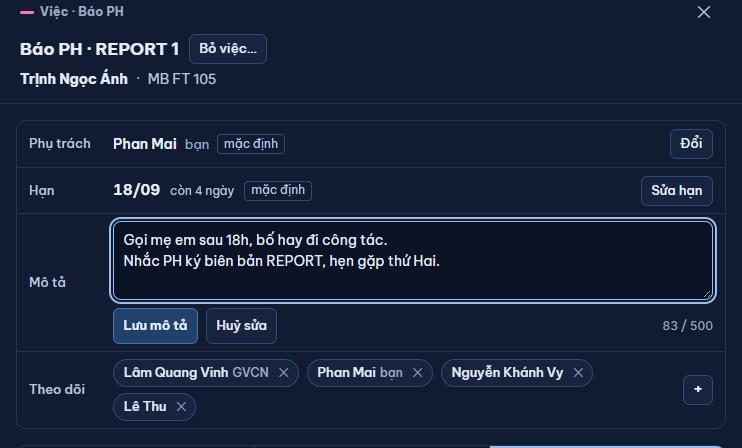
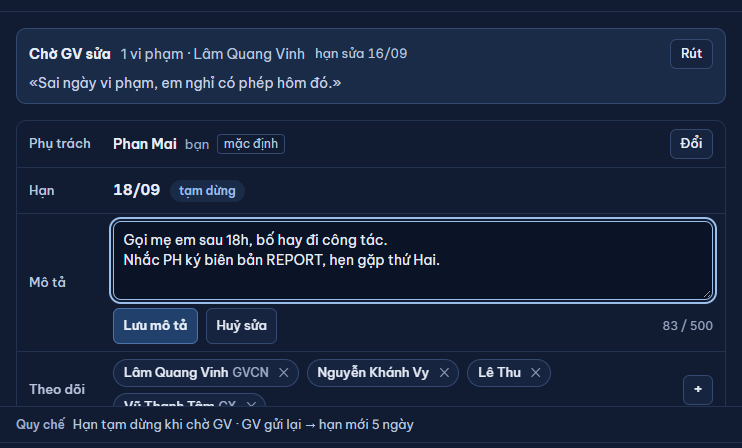
GV-3 rà PTA: người phụ trách không hiện ở Theo dõi (lọc khi đọc, máy chủ, một chỗ) + phép kiểm; Mô tả rỗng gọn một dòng '+ Thêm mô tả'; chụp lại ảnh sau gộp main (#1938 + TL-2): rỗng · có mô tả · chỉ đọc · Vi phạm bị trả lại · Meeting

diff --git a/web/src/modules/congViec/KhoiGiaoViec.tsx b/web/src/modules/congViec/KhoiGiaoViec.tsx
@@ -171,6 +171,17 @@ function DongMoTa({ g, daDoi, reload }: { g: KhoiGv; daDoi: (g: KhoiGv) => void;
     } finally { setDang(false); }
   };
   const o = 'flex min-h-[46px] min-w-0 items-center border-t px-3 py-[7px] max-sm:min-h-[52px] max-sm:px-2.5';
+  const moSua = () => { setNhap(cu ?? ''); setLoi(null); setSua(true); };
+  /* Rà PTA (3): chưa có mô tả → một dòng thấp "Mô tả · + Thêm mô tả" (không ô trống cao, không nút bên phải). */
+  if (!cu && !sua) {
+    const gon = 'flex min-h-[38px] min-w-0 items-center border-t px-3 py-1 max-sm:min-h-[44px] max-sm:px-2.5';
+    return <>
+      <div className={`${gon} whitespace-nowrap pr-0 text-[13px] font-medium text-dim`} style={{ borderColor: 'var(--line)' }}>{t('Mô tả')}</div>
+      <div className={`${gon} col-span-2`} style={{ borderColor: 'var(--line)' }}>
+        <button ref={nutSua} type="button" className="link min-h-[44px] appearance-none border-0 bg-transparent p-0 text-sm font-semibold sm:min-h-0" onClick={moSua}>{t('+ Thêm mô tả')}</button>
+      </div>
+    </>;
+  }
   return <>
     <div className={NHAN} style={{ borderColor: 'var(--line)' }}>{sua ? <label htmlFor={idO}>{t('Mô tả')}</label> : t('Mô tả')}</div>
     {sua ? (
@@ -198,11 +209,11 @@ function DongMoTa({ g, daDoi, reload }: { g: KhoiGv; daDoi: (g: KhoiGv) => void;
       </div>
     ) : <>
       <div className={`${o} text-sm`} style={{ borderColor: 'var(--line)' }}>
-        {cu ? <span className="min-w-0 whitespace-pre-wrap break-words text-[color:var(--text)]">{cu}</span> : <span className="text-faint">{t('Chưa có')}</span>}
+        <span className="min-w-0 whitespace-pre-wrap break-words text-[color:var(--text)]">{cu}</span>
       </div>
       <div className={`${O} justify-end pl-0`} style={{ borderColor: 'var(--line)' }}>
         {g.coTheSuaMoTa && <button ref={nutSua} type="button" className="btn btn-sm min-h-[44px] sm:min-h-[30px]"
-          onClick={() => { setNhap(cu ?? ''); setLoi(null); setSua(true); }}>{cu ? t('Sửa') : t('Thêm')}</button>}
+          onClick={moSua}>{t('Sửa')}</button>}
       </div>
     </>}
   </>;

diff --git a/server/src/worklist/giaoViec.ts b/server/src/worklist/giaoViec.ts
@@ -643,7 +643,10 @@ export function xemGiaoViec(p: Principal, loai: LoaiGiao, id: number): KhoiGiaoV
     giaoBoi: v.pt && r.giao_boi ? nguoi(r.giao_boi) : null, giaoLuc: v.pt ? r.giao_luc ?? null : null,
     han: h.han, hanMacDinh: h.macDinh, hanChon: h.chon, coTheSuaHan: coTheSuaHan(p, v), tamDung: loai === 'bao_ph' && v.mo && !!r.tra_lai_id,
     hanTinhLai: (() => { const c = lan.filter((l) => l.truong === 'han' || l.truong === 'han_tinh_lai').at(-1); return c?.truong === 'han_tinh_lai' && c.moi === h.chon; })(),
-    theoDoi: td.map((t) => ({ id: t.user_id, ten: t.full_name ?? null, nguon: t.nguon })), toiTheoDoi: td.some((t) => t.user_id === p.userId),
+    /* GV-3 (rà PTA): người đang phụ trách (kể cả người theo luật khi việc về mặc định) không hiện là người theo dõi việc của chính mình — dòng giữ trong bảng
+       (giao đi lần nữa thì hiện lại; Hoàn tác cần dòng còn nguyên), chỉ lọc khi đọc. Tab Đang theo dõi đã bỏ việc của mình (`viecTheoDoi`). */
+    theoDoi: td.filter((t) => !v.phuTrach.includes(t.user_id)).map((t) => ({ id: t.user_id, ten: t.full_name ?? null, nguon: t.nguon })),
+    toiTheoDoi: td.some((t) => t.user_id === p.userId) && !v.phuTrach.includes(p.userId),
     coTheDoiNguoi: doiDuoc, coTheSuaTheoDoi: v.mo && coTheSuaTheoDoi(p, v), hoanTacDuoc: !!gd,
     moTa: mt ? { noiDung: mt.noi_dung, suaBoi: mt.full_name ?? null, suaLuc: mt.sua_luc } : null, coTheSuaMoTa: v.mo && coTheSuaMoTa(p, v),
     lichSu: lan.map((l) => ({ truong: l.truong, cu: l.cu ?? null, moi: l.moi ?? null, cuTen: l.truong === 'mo_ta' ? null : tenSo(l.cu), moiTen: l.truong === 'mo_ta' ? null : tenSo(l.moi),   /* VH-1b: mô tả "12" không phải id người */ nguoi: l.nguoi ?? null, luc: l.luc })),

diff --git a/server/src/tests/prGiaoViec.tests.ts b/server/src/tests/prGiaoViec.tests.ts
@@ -554,6 +554,17 @@ export async function runPrGiaoViecTests(t: YThucTestKit) {
     assert(c2 - c1 <= TRAN_GHI_LO.luuVai && c3 - c2 <= TRAN_GHI_LO.luuVai, `lưu vai: ${c2 - c1} / ${c3 - c2} câu > trần ${TRAN_GHI_LO.luuVai}`);
   }));
 
+  await checkAsync('GV-3 (rà PTA) · việc về lại người theo luật (TVV): khối không liệt kê người phụ trách trong Theo dõi; giao đi lần nữa thì hiện lại', () => thu(async () => {
+    const sid = moiEm(); const id = baoPhViPham(sid);
+    giao(ql, 'bao_ph', id, admin.userId);
+    assert(gv.xemGiaoViec(ql, 'bao_ph', id).theoDoi.some((x: any) => x.id === tvv.userId), 'TVV mất việc → theo dõi');
+    const k = gv.doiPhuTrach(ql, 'bao_ph', id, { userId: null, phuTrachCu: admin.userId });
+    assert(!k.duocGiao && k.phuTrach.some((x: any) => x.id === tvv.userId), 'về mặc định → TVV phụ trách');
+    assert(!k.theoDoi.some((x: any) => x.id === tvv.userId) && !gv.xemGiaoViec(tvv, 'bao_ph', id).toiTheoDoi, 'người phụ trách không hiện ở Theo dõi: ' + JSON.stringify(k.theoDoi));
+    giao(ql, 'bao_ph', id, admin.userId);
+    assert(gv.xemGiaoViec(ql, 'bao_ph', id).theoDoi.some((x: any) => x.id === tvv.userId) && !gv.xemGiaoViec(ql, 'bao_ph', id).theoDoi.some((x: any) => x.id === admin.userId), 'giao lại → TVV hiện lại, người được giao không ở Theo dõi');
+  }));
+
   const fs = await import('node:fs');
   const path = await import('node:path');
   const { fileURLToPath } = await import('node:url');

diff --git a/shared/i18n/en/giaoViec2.ts b/shared/i18n/en/giaoViec2.ts
@@ -56,5 +56,5 @@ export const EN_GIAO_VIEC_2 = {
   /* GV-3 (N62): dòng Mô tả trong khối giao việc. */
   'Đã lưu mô tả': 'Description saved', 'Đã bỏ mô tả': 'Description removed', 'Cần làm gì, lưu ý gì (tuỳ chọn)': 'What to do, what to note (optional)',
   'Quá {n} ký tự — bớt chữ để lưu': '{n} characters over — shorten to save',
-  'Người khác vừa sửa mô tả: “{chu}”. Chữ bạn gõ vẫn ở ô — bấm Lưu mô tả để thay.': 'Someone just edited the description: “{chu}”. Your text is still in the box — press Save description to replace it.', 'Thêm mô tả': 'Add description', 'Bỏ mô tả': 'Remove description',
+  'Người khác vừa sửa mô tả: “{chu}”. Chữ bạn gõ vẫn ở ô — bấm Lưu mô tả để thay.': 'Someone just edited the description: “{chu}”. Your text is still in the box — press Save description to replace it.', 'Thêm mô tả': 'Add description', '+ Thêm mô tả': '+ Add description', 'Bỏ mô tả': 'Remove description',
 } as const;
